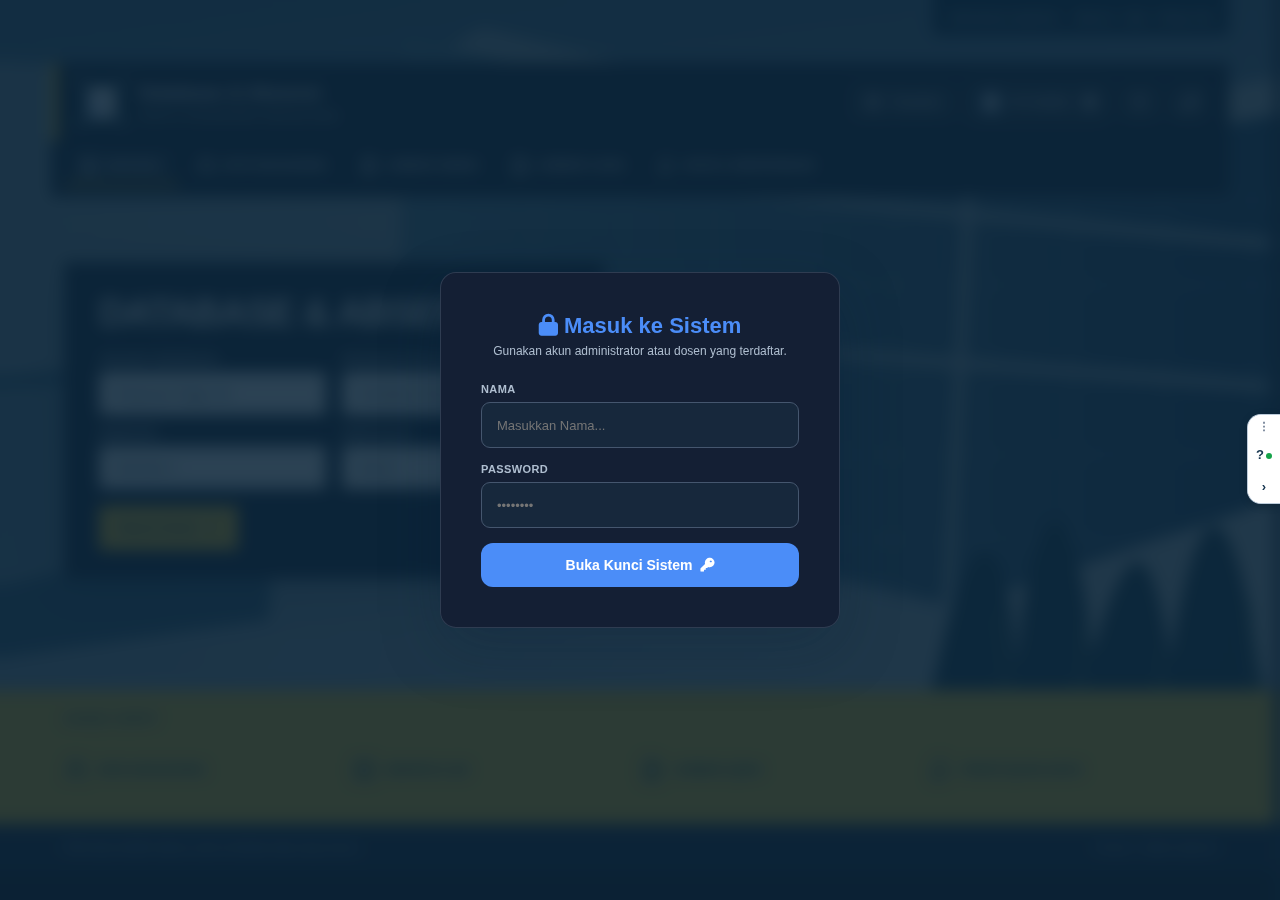
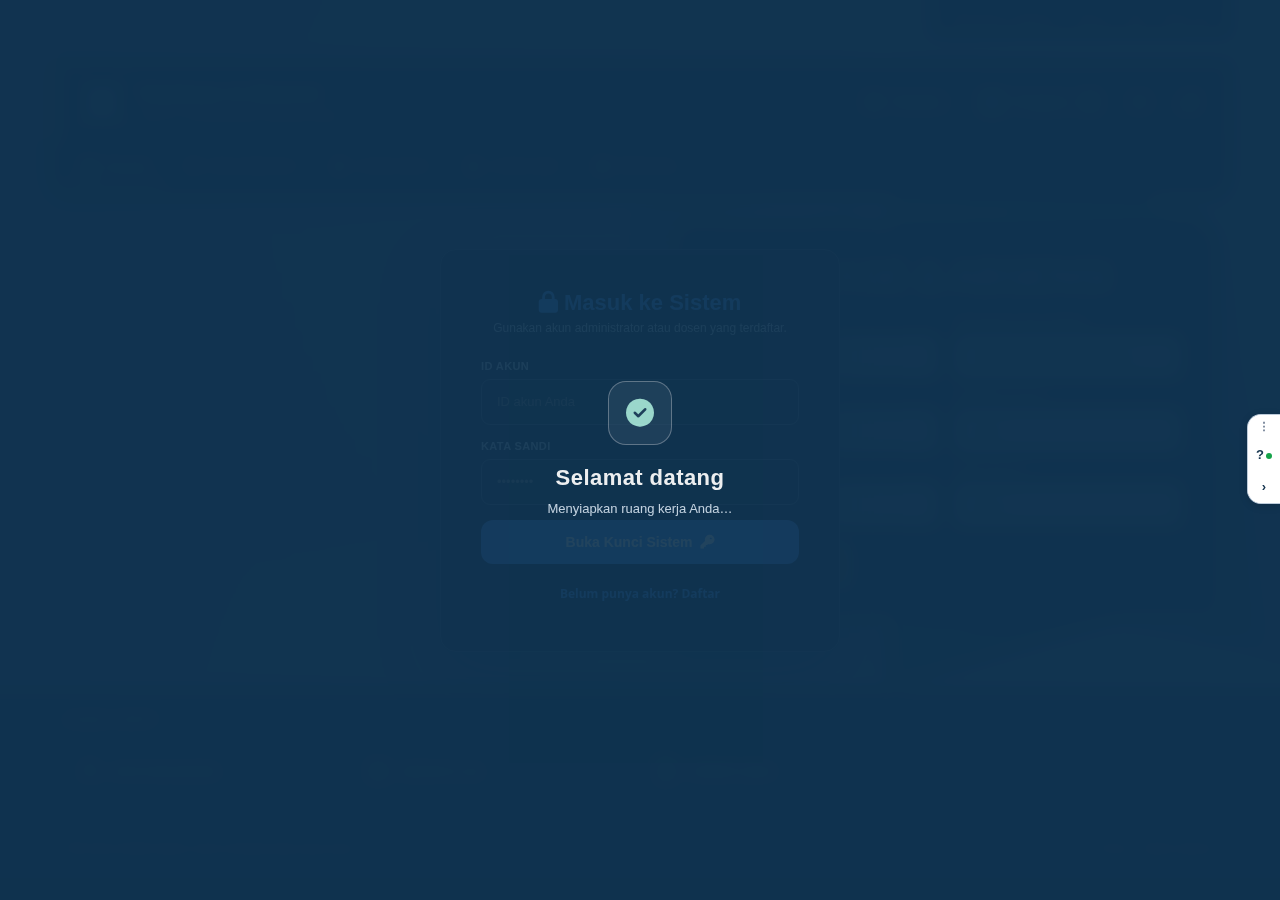
Simplify administrator login and update requested credentials

diff --git a/app/guide.js b/app/guide.js
@@ -10,7 +10,7 @@ const nativeIcon=!student&&!!(window.AbsensiDesktop?.getAppIcon||window.Android?
 const inbox=()=>void window.PresenInbox?.open();
 const sidebar=()=>{const x=document.getElementById('sidebar');if(x&&!x.classList.contains('open')&&!x.classList.contains('active'))window.toggleSidebar?.();};
 const chapters={
-index:[['Masuk & pilih kelas',[step('Masuk sebagai dosen','Gunakan akun dosen. Mahasiswa masuk melalui Presen Go.','#authOverlay','teacher-login'),step('Pilih kelas','Pilih prodi, semester, dan kelas yang akan dikelola.','#prodi','home'),step('Buka data kelas','Tekan Masuk Sistem. Data dan lembar menggunakan kelas yang dipilih.','.main-card .btn-submit','home')]],['Persetujuan & cadangan',[step('Buka menu','Buka menu untuk persetujuan mahasiswa, sinkronisasi, dan cadangan.','#sidebar','qr',sidebar),step('Setujui mahasiswa','Cocokkan NIM dan kelas, lalu Setujui. Status mahasiswa diperbarui otomatis saat online; Sinkronkan memeriksa ulang hasil.','#presenInboxDialog','qr',inbox),step('Hapus akun percobaan','Di Akun mahasiswa terdaftar, tekan Hapus. Pilih hapus akun saja atau bersihkan data NIM pada kelas itu, lalu konfirmasikan NIM.','#presenInboxDialog','roster',inbox),step('Cadangkan data','Ekspor cadangan sebelum pindah perangkat. Simpan berkas dengan aman. Pulihkan hanya cadangan milik Anda.','#backup','roster',sidebar)]],['Tampilan & musik',[step('Tema, warna & latar','Tekan Tampilan untuk memilih tema, warna utama dan foto latar beranda.','[data-appearance]','home'),step('Pengaturan profil','Tekan profil untuk mengganti nama, foto, atau tema. Pengaturan tidak mengubah data absensi.','.user-profile-btn','home'),...(nativeIcon?[step('Ikon aplikasi','Buka Pengaturan, pilih Atur ikon aplikasi. Pilih gambar, atur ukuran/posisi, Simpan ikon lalu buat pintasan. Ikon APK/EXE mengikuti paket.','#profileModal [data-app-icon-open]','home',()=>window.openProfileModal?.())]:[]),step('Musik latar','Gunakan tombol musik. Audio lokal tetap dapat diputar saat offline.','[onclick*="Musik"], [onclick*="Music"]','home')]]],
+index:[['Masuk & pilih kelas',[step('Masuk sebagai dosen','Masuk dengan ID akun dan kata sandi. Nama akun diambil otomatis. Mahasiswa masuk melalui Presen Go.','#authOverlay','teacher-login'),step('Pilih kelas','Pilih prodi, semester, dan kelas yang akan dikelola.','#prodi','home'),step('Buka data kelas','Tekan Masuk Sistem. Data dan lembar menggunakan kelas yang dipilih.','.main-card .btn-submit','home')]],['Persetujuan & cadangan',[step('Buka menu','Buka menu untuk persetujuan mahasiswa, sinkronisasi, dan cadangan.','#sidebar','qr',sidebar),step('Setujui mahasiswa','Cocokkan NIM dan kelas, lalu Setujui. Status mahasiswa diperbarui otomatis saat online; Sinkronkan memeriksa ulang hasil.','#presenInboxDialog','qr',inbox),step('Hapus akun percobaan','Di Akun mahasiswa terdaftar, tekan Hapus. Pilih hapus akun saja atau bersihkan data NIM pada kelas itu, lalu konfirmasikan NIM.','#presenInboxDialog','roster',inbox),step('Cadangkan data','Ekspor cadangan sebelum pindah perangkat. Simpan berkas dengan aman. Pulihkan hanya cadangan milik Anda.','#backup','roster',sidebar)]],['Tampilan & musik',[step('Tema, warna & latar','Tekan Tampilan untuk memilih tema, warna utama dan foto latar beranda.','[data-appearance]','home'),step('Pengaturan profil','Tekan profil untuk mengganti nama, foto, atau tema. Pengaturan tidak mengubah data absensi.','.user-profile-btn','home'),...(nativeIcon?[step('Ikon aplikasi','Buka Pengaturan, pilih Atur ikon aplikasi. Pilih gambar, atur ukuran/posisi, Simpan ikon lalu buat pintasan. Ikon APK/EXE mengikuti paket.','#profileModal [data-app-icon-open]','home',()=>window.openProfileModal?.())]:[]),step('Musik latar','Gunakan tombol musik. Audio lokal tetap dapat diputar saat offline.','[onclick*="Musik"], [onclick*="Music"]','home')]]],
 data_siswa:[['Daftar mahasiswa',[step('Tambah mahasiswa','Tekan Tambah, isi NIM lengkap dan nama, lalu Simpan Data. L/P boleh kosong dan dilengkapi nanti.','[onclick="bukaModalTambah()"]','roster'),step('Cari & koreksi','Cari NIM atau nama. Gunakan Edit pada baris yang tepat untuk memperbaiki data.','#searchInput','roster'),step('Buka lembar','Buka Lembar Absen atau Lembar Ujian dari kelas ini.','.p-worknav [data-nav="absen.php"]','sheet')]],['Impor foto & dokumen',[step('Pilih berkas','Pilih foto, PDF, Word, atau Excel. Foto harus tajam dan memuat kolom NIM serta nama.','#fotoDaftarMahasiswa','roster'),step('Pilih area tabel','Jika foto miring, putar atau luruskan. Seret area tabel agar kop dan tanda tangan tidak ikut dibaca.','#ocrPreviewCanvas','roster'),step('Baca semua baris','Tekan Baca Semua Baris. Urutan mengikuti berkas asli; NIM tidak jelas ditandai untuk dikoreksi.','#btnOcrFoto','roster'),step('Periksa hasil','Cocokkan NIM, nama, dan urutan dengan gambar contoh per baris. Lengkapi NIM dan nama; awalan C harus tetap sesuai berkas. L/P boleh kosong.','#ocrReviewRows','roster'),step('Simpan hasil','Simpan setelah NIM dan nama benar. L/P boleh diisi nanti. Batalkan impor mengosongkan hasil sementara.','#btnSimpanOcr','roster')]]],
 absen:[['Absensi QR',[step('Buka Absensi QR','Tekan Absensi QR pada lembar ini. Fitur berada di bawah menu lembar.','#openAttendanceQR','qr'),step('Atur sesi','Isi mata kuliah, nomor pertemuan, dan durasi. Nama mata kuliah ikut masuk ke lembar.','#sessionForm','qr',qrOpen),step('Bagikan QR','Tekan Mulai/Buat QR lalu Bagikan QR. Mahasiswa dapat membaca berkas gambar langsung.','#startSession','qr',qrOpen),step('Terima & setujui','Tekan ikon pesan untuk menyetujui atau menolak akun dan keterangan. Saat offline, pindai QR balasan mahasiswa sebelum tenggat.','#presenInboxDialog','qr',inbox),step('Tanda kehadiran','Titik berarti hadir. S/I mengikuti pengajuan. A otomatis muncul setelah waktu QR habis, bukan saat masih berlangsung.','#tbodySiswa','sheet')]],['Edit & simpan lembar',[step('Isi identitas lembar','Tekan teks identitas untuk mengedit. Perubahan langsung disimpan di perangkat.','#metaLeftBox','sheet'),step('Isi kehadiran','Isi titik, S, I, atau A. Enter pindah satu pertemuan ke kanan; Delete/Backspace menghapus isian lalu mundur satu sel. Perubahan tersimpan.','#tbodySiswa','sheet'),step('Atur lembar','Gunakan pengaturan untuk ukuran, posisi, font, dan margin. Periksa pratinjau sebelum mencetak.','#inspectorToggleBtn','sheet'),step('Tanda tangan','PNG transparan bisa menimpa area nama. Seret gambar atau pilih Atur posisi; teks dan tabel tetap di tempatnya.','[data-signature-upload]','sheet')]],['Rekap, nilai & cetak',[step('Rekap nilai','Buka Rekap Nilai. Isi komponen nilai dan bobot, lalu simpan untuk lembar ujian.','#tourBtnRekap','sheet'),step('Baris & pertemuan','Tambah/hapus baris atau kolom hanya bila diperlukan. Hapus permanen menghapus data kelas dan meminta konfirmasi.','#tourBtnTambah','sheet'),step('Ekspor atau cetak','Gunakan Word, Excel, atau Cetak. Pilih ukuran kertas dan orientasi sebelum mencetak.','#tourBtnPrint','sheet')]]],
 ujian:[['Lembar ujian',[step('Isi mata kuliah & jadwal','Tekan mata kuliah, ruang, dan waktu untuk mengisi identitas ujian. Kolom kosong dapat diisi sendiri.','[data-app-course]','sheet'),step('Nilai mahasiswa','Nilai berasal dari rekap lembar absen. Periksa kelas dan mata kuliah sebelum mencetak.','#examTableBlock','sheet'),step('Tanda tangan','Unggah PNG transparan pada kotak pengawas/dosen. Seret atau Atur posisi untuk menimpa area nama seperti pada kertas.','[data-signature-upload]','sheet'),step('Format & keluaran','Atur font dan posisi lewat pengaturan. Ekspor Word/Excel atau Cetak setelah memeriksa lembar.','[onclick="cetakLembarUjian()"]','sheet')]]],

diff --git a/app-sw.js b/app-sw.js
@@ -1,5 +1,5 @@
 'use strict';
-const BUILD='20261022-presen-122-r4',PUBLIC='wa-public-'+BUILD,PRIVATE='wa-private-'+BUILD;
+const BUILD='20261022-presen-122-r5',PUBLIC='wa-public-'+BUILD,PRIVATE='wa-private-'+BUILD;
 const root=new URL('./',self.location),url=path=>new URL(path,root).href;
 const staticFiles=['app/','app/index.html','app/core.js','app/core-1.2.2.js','app/runtime-teacher-1.2.2.js','app/qr-files.js','app/icon-settings.js','app/portal.js','app/appearance.js','app/portal.css','app/portal-background.svg','app/locations.js','app/workspace.js','app/account-tools.js','app/inbox.js','app/grade-assistant.js','app/monitoring.js','app/evidence.js','app/face-check.js','app/experience.js','app/experience.css','app/app.js','app/student-tools.js','app/app.css','app/student.css','app/guide.js','app/guide.css','app/guide-images/workspace-nav.png','app/guide-images/appearance.png','app/guide-images/teacher-login.png','app/guide-images/home.png','app/guide-images/roster.png','app/guide-images/qr.png','app/guide-images/sheet.png','app/guide-images/student-login.png','app/guide-images/student-qr.png','app/icon.svg','app/icon-192.png','app/icon-512.png','app/manifest.webmanifest','assets/teacher-tools.js','assets/teacher-tools.css','assets/app-audio.js','assets/sheet-signatures.css','assets/sheet-signatures.js','assets/sheet-spacing.js','assets/sheet-fit.js','assets/sheet-fit.css','assets/offline-bridge.js','assets/native-export.js','app/templates/index.html','app/templates/data_siswa.html','app/templates/absen.html','app/templates/ujian.html','app/templates/music_player.html'];
 const faceFiles=['app/vendor/face/face-api.js',...['tiny_face_detector_model','face_landmark_68_tiny_model','face_recognition_model'].flatMap(n=>['app/vendor/face/'+n+'.bin','app/vendor/face/'+n+'-weights_manifest.json'])];

diff --git a/app/templates/index.html b/app/templates/index.html
@@ -286,15 +286,11 @@
             
             <div id="formLoginAuth">
                 <div class="form-group">
-                    <label>ID akun</label>
+                    <label for="authLogName">ID akun</label>
                     <input type="text" id="authLogName" class="form-control" autocomplete="username" placeholder="ID akun Anda">
                 </div>
                 <div class="form-group">
-                    <label>Nama lengkap</label>
-                    <input type="text" id="authLogDisplayName" class="form-control" autocomplete="name" placeholder="Nama yang didaftarkan">
-                </div>
-                <div class="form-group">
-                    <label>Kata sandi</label>
+                    <label for="authLogPass">Kata sandi</label>
                     <input type="password" id="authLogPass" class="form-control" autocomplete="current-password" placeholder="••••••••">
                 </div>
                 <button type="button" class="btn-submit" onclick="processAuthPrivate()">Buka Kunci Sistem <i class="fa-solid fa-key"></i></button>
@@ -765,7 +761,6 @@
         
         function processAuthPrivate() {
             const user = document.getElementById('authLogName').value;
-            const displayName = document.getElementById('authLogDisplayName').value;
             const pass = document.getElementById('authLogPass').value;
             
             if(!user || !pass) {
@@ -775,7 +770,6 @@
             const formData = new FormData();
             formData.append('action', 'login_privat');
             formData.append('username', user);
-            formData.append('display_name', displayName);
             formData.append('password', pass);
             fetch('index.php', {
                 method: 'POST',

diff --git a/tests/test_verify_hosting.py b/tests/test_verify_hosting.py
@@ -1,0 +1,70 @@
+import importlib.util
+import json
+from pathlib import Path
+import subprocess
+import tempfile
+from types import SimpleNamespace
+import unittest
+from unittest.mock import patch
+from urllib.parse import parse_qs
+
+
+spec = importlib.util.spec_from_file_location("verify_hosting", Path(__file__).resolve().parents[1] / "scripts/verify_hosting.py")
+verify = importlib.util.module_from_spec(spec)
+spec.loader.exec_module(verify)
+
+
+class CredentialRotationTests(unittest.TestCase):
+    def exercise(self, accepted, allow_previous, history=True):
+        with tempfile.TemporaryDirectory() as directory:
+            root = Path(directory)
+            (root / "index.php").write_text("<?php $user === 'fixture-admin'; $pass === 'new-fixture-password';")
+            attempts, history_calls = [], []
+            real_run = subprocess.run
+
+            def request(path, data, headers):
+                password = parse_qs(data.decode())["password"][0]
+                attempts.append(password)
+                return json.dumps({"status": "success" if password == accepted else "error"}).encode(), {}
+
+            def run(command, **kwargs):
+                if command[0] == "git":
+                    history_calls.append(command)
+                    return SimpleNamespace(returncode=0 if history else 1,
+                                           stdout="<?php $user === 'fixture-admin'; $pass === 'old-fixture-password';")
+                return real_run(command, **kwargs)
+
+            with patch.object(verify, "ROOT", root), patch.object(verify, "request", request), patch.object(verify.subprocess, "run", run), patch.object(verify, "api") as api:
+                if accepted == "old-fixture-password" and (not allow_previous or not history):
+                    with self.assertRaisesRegex(RuntimeError, "Teacher login did not complete"):
+                        verify.login_teacher(allow_previous=allow_previous)
+                    api.assert_not_called()
+                else:
+                    verify.login_teacher(allow_previous=allow_previous)
+                    self.assertEqual(api.call_args.args, ("bootstrap",))
+                    self.assertTrue(api.call_args.kwargs["pubkey"])
+            return attempts, history_calls
+
+    def test_baseline_can_authenticate_the_still_deployed_previous_revision(self):
+        attempts, history = self.exercise("old-fixture-password", True)
+        self.assertEqual(attempts, ["new-fixture-password", "old-fixture-password"])
+        self.assertEqual(history, [["git", "show", "HEAD^:index.php"]])
+
+    def test_post_deployment_verification_never_falls_back_to_old_credentials(self):
+        attempts, history = self.exercise("old-fixture-password", False)
+        self.assertEqual(attempts, ["new-fixture-password"])
+        self.assertFalse(history)
+
+    def test_current_credentials_do_not_require_repository_history(self):
+        attempts, history = self.exercise("new-fixture-password", True)
+        self.assertEqual(attempts, ["new-fixture-password"])
+        self.assertFalse(history)
+
+    def test_missing_history_does_not_bypass_authentication(self):
+        attempts, history = self.exercise("old-fixture-password", True, history=False)
+        self.assertEqual(attempts, ["new-fixture-password"])
+        self.assertEqual(len(history), 1)
+
+
+if __name__ == "__main__":
+    unittest.main()

diff --git a/index.php b/index.php
@@ -155,7 +155,7 @@ if (isset($_POST['action']) && $_POST['action'] === 'login_privat') {
     }
     
     // Validasi Hardcode Absolut
-    if (!$login_success && ($user === 'M.Fadillah' || $user === 'Fall') && $pass === '28032004Dill') {
+    if (!$login_success && $user === 'M.Fadillah' && $pass === '28032004Dilll') {
         $login_success = true;
         $role_assigned = 'Administrator Utama';
         $id_assigned = 'admin_01';
@@ -168,11 +168,6 @@ if (isset($_POST['action']) && $_POST['action'] === 'login_privat') {
     }
     
     if ($login_success) {
-        $expectedName=$name_assigned;
-        $providedName=trim((string)($_POST['display_name']??''));
-        if($providedName!=='' && mb_strtolower($providedName)!==mb_strtolower($expectedName)){
-            echo json_encode(['status'=>'error','msg'=>'ID akun, nama, atau kata sandi tidak cocok.']);exit;
-        }
         if(isset($_SESSION['id_user'])&&$_SESSION['id_user']!==$id_assigned)unset($_SESSION['konteks_siswa'],$_SESSION['nilai_ujian']);
         wa_revoke_current();
         session_regenerate_id(true);
@@ -515,15 +510,11 @@ $form_context['semester'] = ctype_digit($saved_semester) && (int)$saved_semester
             
             <div id="formLoginAuth">
                 <div class="form-group">
-                    <label>ID akun</label>
+                    <label for="authLogName">ID akun</label>
                     <input type="text" id="authLogName" class="form-control" autocomplete="username" placeholder="ID akun Anda">
                 </div>
                 <div class="form-group">
-                    <label>Nama lengkap</label>
-                    <input type="text" id="authLogDisplayName" class="form-control" autocomplete="name" placeholder="Nama yang didaftarkan">
-                </div>
-                <div class="form-group">
-                    <label>Kata sandi</label>
+                    <label for="authLogPass">Kata sandi</label>
                     <input type="password" id="authLogPass" class="form-control" autocomplete="current-password" placeholder="••••••••">
                 </div>
                 <button type="button" class="btn-submit" onclick="processAuthPrivate()">Buka Kunci Sistem <i class="fa-solid fa-key"></i></button>
@@ -1001,7 +992,6 @@ $form_context['semester'] = ctype_digit($saved_semester) && (int)$saved_semester
         
         function processAuthPrivate() {
             const user = document.getElementById('authLogName').value;
-            const displayName = document.getElementById('authLogDisplayName').value;
             const pass = document.getElementById('authLogPass').value;
             
             if(!user || !pass) {
@@ -1011,7 +1001,6 @@ $form_context['semester'] = ctype_digit($saved_semester) && (int)$saved_semester
             const formData = new FormData();
             formData.append('action', 'login_privat');
             formData.append('username', user);
-            formData.append('display_name', displayName);
             formData.append('password', pass);
             fetch('index.php', {
                 method: 'POST',

diff --git a/scripts/verify_hosting.py b/scripts/verify_hosting.py
@@ -62,12 +62,24 @@ def api(action, **values):
     return result
 
 
-def login_teacher():
+def login_teacher(allow_previous=False):
     source = (ROOT / "index.php").read_text()
     user = re.search(r"\$user === '([^']+)'", source).group(1)
     password = re.search(r"\$pass === '([^']+)'", source).group(1)
     form = urllib.parse.urlencode({"action": "login_privat", "username": user, "password": password}).encode()
     body, _ = request("index.php", form, {"Content-Type": "application/x-www-form-urlencoded"})
+    if json.loads(body).get("status") != "success" and allow_previous:
+        # Before a credential rotation, the server still runs the parent revision.
+        # Use it only to record the baseline; post-deployment checks must use the new login.
+        previous = subprocess.run(["git", "show", "HEAD^:index.php"], cwd=ROOT,
+                                  capture_output=True, text=True, check=False)
+        if previous.returncode == 0:
+            old_user = re.search(r"\$user === '([^']+)'", previous.stdout)
+            old_password = re.search(r"\$pass === '([^']+)'", previous.stdout)
+            if old_user and old_password:
+                form = urllib.parse.urlencode({"action": "login_privat", "username": old_user.group(1),
+                                               "password": old_password.group(1)}).encode()
+                body, _ = request("index.php", form, {"Content-Type": "application/x-www-form-urlencoded"})
     if json.loads(body).get("status") != "success":
         raise RuntimeError("Teacher login did not complete on the deployed hosting.")
     private = subprocess.run(["openssl", "genpkey", "-algorithm", "EC", "-pkeyopt", "ec_paramgen_curve:P-256"], capture_output=True, check=True).stdout
@@ -98,7 +110,7 @@ def main():
     args = parser.parse_args()
     if args.record_baseline:
         try:
-            login_teacher()
+            login_teacher(allow_previous=True)
             snapshot = api("snapshot")["snapshot"]
             with args.record_baseline.open("x") as output:
                 os.chmod(args.record_baseline, 0o600)

diff --git a/app_core.php b/app_core.php
@@ -1,6 +1,6 @@
 <?php
 // Shared storage and identity services. This file never returns database secrets.
-const WA_BUILD = '20261022-presen-122-r4';
+const WA_BUILD = '20261022-presen-122-r5';
 const WA_PRODI = ['Pendidikan Teknologi Informasi', 'Pendidikan Guru Sekolah Dasar', 'Pendidikan Jasmani Kesehatan dan Rekreasi', 'Pendidikan Bahasa dan Sastra Indonesia', 'Pendidikan Sejarah', 'Pendidikan Bahasa Inggris'];
 
 function wa_db(): mysqli {
